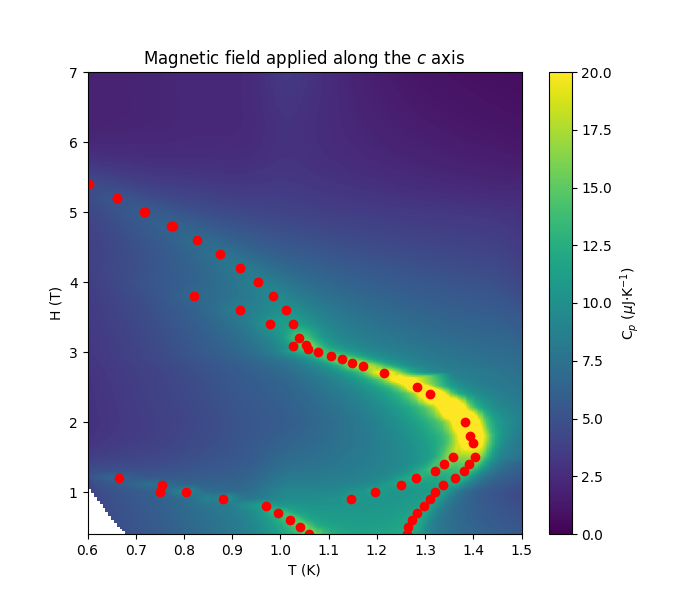
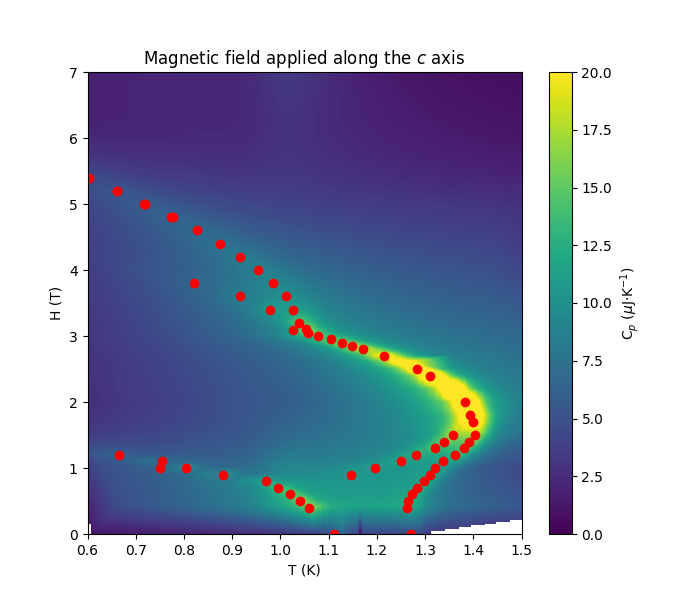
specific heat map along c now contains the data from ground state

diff --git a/cp/specific_heat_color_maps.py b/cp/specific_heat_color_maps.py
@@ -25,7 +25,7 @@ im = plt.imshow(Z, extent=(x.min(), x.max(), y.min(), y.max()),
 plt.colorbar(im, label=r'C$_{p}$ ($\mu $J$\cdot$K$^{-1}$)')
 plt.xlabel('T (K)')
 plt.xlim(0.6, 1.5)
-plt.ylim(0.4, 7)
+plt.ylim(0, 7)
 plt.ylabel('H (T)')
 plt.title(r'Magnetic field applied along the $c$ axis')
 pattern = re.compile(r'([^,]*),([^,]*),([^,]*)')
